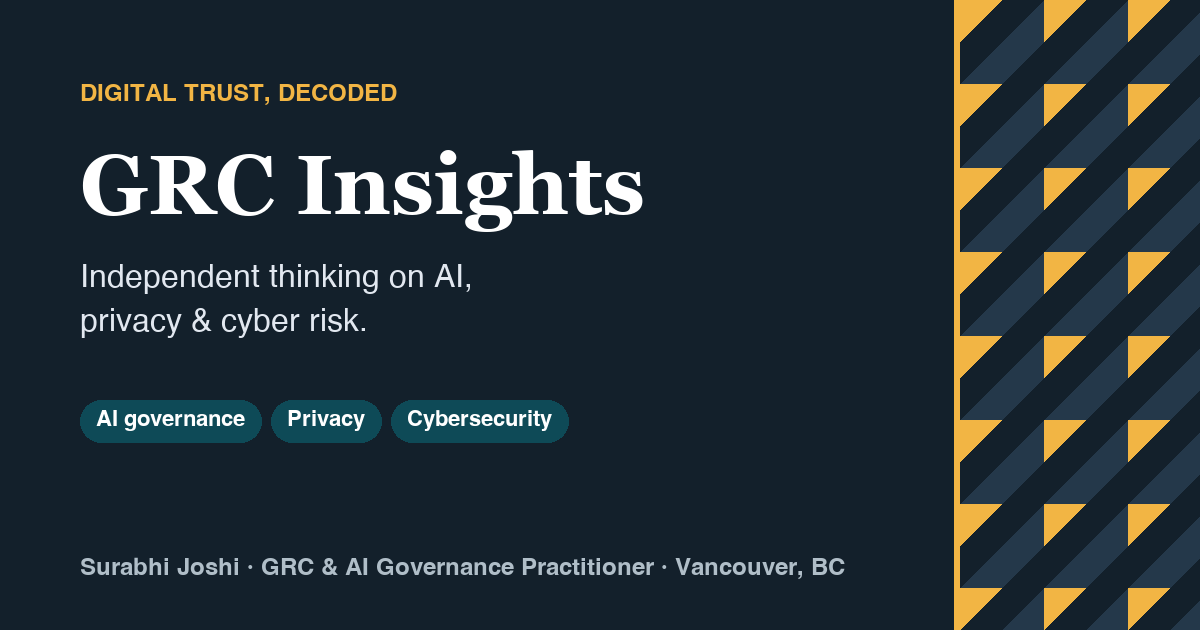
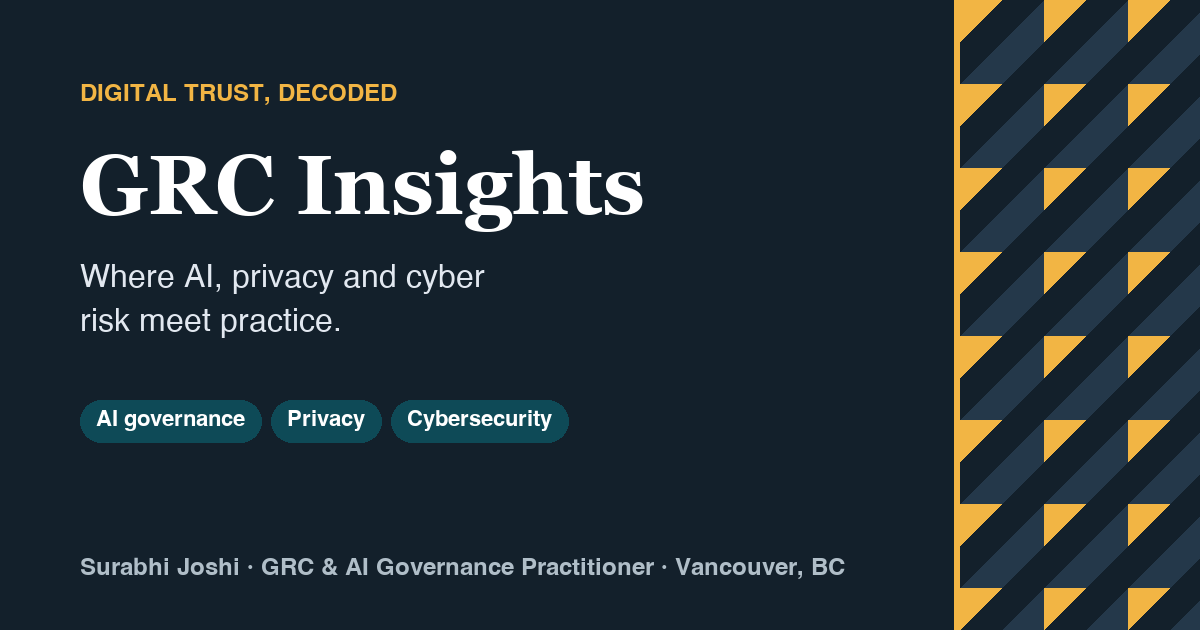
fix: final-review fixes (og-v2 routine paths, keep hand-picked images, AA label text, smaller card images, eager cover) + new hero headline

Changed region(s): [[0.0617, 0.4222, 0.4008, 0.5429]]

diff --git a/css/style.css b/css/style.css
@@ -9,7 +9,8 @@
   --teal: #0E4A57;
   --teal-2: #1A6170;
   --amber: #F2B544;
-  --label: #B7791F;
+  --label: #B7791F;        /* decorative accent (spec §8) */
+  --label-text: #8A5A12;   /* same hue, darkened for AA text contrast */
   --card: #FBF6EC;
   --white: #FFFFFF;
   --serif: 'Fraunces', Georgia, 'Times New Roman', serif;
@@ -68,7 +69,7 @@ h1, h2, h3, h4 { font-family: var(--serif); color: var(--ink); letter-spacing: -
   font: 800 11px/1.3 var(--sans); letter-spacing: .14em; text-transform: uppercase;
 }
 .type-label, .section-label {
-  font: 800 11px/1.3 var(--sans); letter-spacing: .14em; text-transform: uppercase; color: var(--label);
+  font: 800 11px/1.3 var(--sans); letter-spacing: .14em; text-transform: uppercase; color: var(--label-text);
 }
 .section-label { display: block; margin: 40px 0 14px; }
 
@@ -166,7 +167,7 @@ h1, h2, h3, h4 { font-family: var(--serif); color: var(--ink); letter-spacing: -
 .radar-strip { display: flex; flex-wrap: wrap; align-items: center; gap: 12px 28px; padding: 20px 0; border-top: 1px solid var(--line); border-bottom: 1px solid var(--line); }
 .upcoming { list-style: none; display: flex; flex-direction: column; gap: 8px; margin: 6px 0 18px; }
 .radar-strip .upcoming { flex-direction: row; flex-wrap: wrap; gap: 10px 26px; margin: 0; }
-.upcoming time { font-weight: 800; color: var(--label); margin-right: 6px; text-transform: uppercase; font-size: 13px; }
+.upcoming time { font-weight: 800; color: var(--label-text); margin-right: 6px; text-transform: uppercase; font-size: 13px; }
 .upcoming a { color: var(--ink); font-weight: 700; text-decoration: none; font-family: var(--serif); }
 .radar-strip .go { margin-left: auto; font-weight: 700; color: var(--teal); text-decoration: none; }
 
@@ -212,7 +213,7 @@ h1, h2, h3, h4 { font-family: var(--serif); color: var(--ink); letter-spacing: -
 .about { display: flex; gap: 22px; margin-top: 44px; padding: 26px; border-radius: 16px; background: var(--white); border: 1px solid var(--line); }
 .about-avatar { flex: none; width: 64px; height: 64px; border-radius: 50%; display: grid; place-items: center; background: var(--teal); color: var(--white); font: 700 22px var(--serif); }
 .about-content .name { font: 700 22px var(--serif); }
-.about-content .role { font-size: 13px; font-weight: 600; color: var(--label); margin: 2px 0 10px; text-transform: uppercase; letter-spacing: .08em; }
+.about-content .role { font-size: 13px; font-weight: 600; color: var(--label-text); margin: 2px 0 10px; text-transform: uppercase; letter-spacing: .08em; }
 .about-content p { font-size: 15px; color: var(--muted); }
 .li-link { display: inline-flex; align-items: center; gap: 8px; margin-top: 14px; padding: 10px 16px; border-radius: 999px; background: var(--teal); color: var(--white); font-weight: 700; font-size: 14px; text-decoration: none; }
 .li-link:hover { background: var(--teal-2); }
@@ -223,14 +224,14 @@ h1, h2, h3, h4 { font-family: var(--serif); color: var(--ink); letter-spacing: -
 .trends-grid { display: grid; grid-template-columns: repeat(2, minmax(0, 1fr)); gap: 20px; margin: 10px 0 30px; }
 .trend-card { position: relative; background: var(--white); border: 1px solid var(--line); border-top: 4px solid var(--teal); border-radius: var(--radius); padding: 22px; }
 .trend-icon { font-size: 22px; margin-bottom: 8px; }
-.trend-number { font: 800 11px var(--sans); letter-spacing: .14em; text-transform: uppercase; color: var(--label); }
+.trend-number { font: 800 11px var(--sans); letter-spacing: .14em; text-transform: uppercase; color: var(--label-text); }
 .trend-title { font: 700 20px/1.25 var(--serif); margin: 6px 0 10px; }
 .trend-body { font-size: 15px; color: var(--muted); margin-bottom: 12px; }
 .trend-actions { background: var(--card); border-radius: 10px; padding: 12px 14px; }
 .trend-actions p { font-weight: 800; font-size: 12px; text-transform: uppercase; letter-spacing: .1em; color: var(--teal); margin-bottom: 6px; }
 .trend-actions ul { list-style: none; }
 .trend-actions li { position: relative; padding-left: 16px; font-size: 14px; margin-bottom: 5px; }
-.trend-actions li::before { content: '→'; position: absolute; left: 0; color: var(--label); }
+.trend-actions li::before { content: '→'; position: absolute; left: 0; color: var(--label-text); }
 .takeaway { background: var(--ink); color: var(--white); border-radius: 16px; padding: 28px 30px; margin: 10px 0 24px; }
 .takeaway .label { font: 800 11px var(--sans); letter-spacing: .14em; text-transform: uppercase; color: var(--amber); }
 .takeaway h2 { color: var(--white); font-size: 28px; margin: 8px 0 10px; }

diff --git a/index.html b/index.html
@@ -9,8 +9,8 @@ description: "Digital trust, decoded: a GRC practitioner's field notes on AI gov
   <div class="hero-inner hero-grid">
     <div>
       <span class="kicker">Digital trust, decoded</span>
-      <h1>Independent thinking on AI, privacy &amp; cyber risk.</h1>
-      <p class="lede">Field notes by {{ site.author.name }}, a GRC practitioner in Vancouver. What's changing, what it means, and what I'd do next.</p>
+      <h1>Where AI, privacy and cyber risk meet practice.</h1>
+      <p class="lede">Making sense of AI, privacy and cyber risk, before it lands on your desk. Field notes by {{ site.author.name }}, a GRC practitioner in Vancouver.</p>
       {% if site.substack_url and site.substack_url != "" %}<a class="btn" href="{{ site.substack_url }}" target="_blank" rel="noopener">Subscribe on Substack</a>{% endif %}
       <a class="btn{% if site.substack_url and site.substack_url != '' %} btn--secondary{% endif %}" href="{{ site.author.url }}" target="_blank" rel="noopener">Follow on LinkedIn</a>
       <div class="author-row">
@@ -48,7 +48,7 @@ description: "Digital trust, decoded: a GRC practitioner's field notes on AI gov
   {% if latest.series == 'field-notes' %}{% assign latest_fmt = '%B %Y' %}{% else %}{% assign latest_fmt = '%-d %B %Y' %}{% endif %}
   <span class="section-label">Featured</span>
   <a class="latest-card" href="{{ latest.url | relative_url }}">
-    <div class="card-image">{% if latest.cover %}{% if latest.cover contains '://' %}{% assign src = latest.cover %}{% else %}{% assign src = latest.cover | relative_url %}{% endif %}<img src="{{ src }}" alt="{{ latest.cover_alt | escape }}">{% else %}{% include brand-art.html class="brand-art--small" %}{% endif %}</div>
+    <div class="card-image">{% if latest.cover %}{% if latest.cover contains '://' %}{% assign src = latest.cover | replace: 'w=1600', 'w=1200' %}{% else %}{% assign src = latest.cover | relative_url %}{% endif %}<img src="{{ src }}" alt="{{ latest.cover_alt | escape }}" loading="lazy">{% else %}{% include brand-art.html class="brand-art--small" %}{% endif %}</div>
     <div class="latest-text">
       <span class="type-label">{{ latest_series.label }}{% if latest.issue > 0 %} · Issue {{ latest.issue }}{% endif %} · {{ latest.date | date: latest_fmt }}</span>
       <span class="latest-title">{{ latest.title }}</span>

diff --git a/_includes/post-card.html b/_includes/post-card.html
@@ -2,7 +2,7 @@
 {%- assign p = include.post -%}
 {%- if p.series == 'field-notes' %}{% assign label = 'Field Notes' %}{% assign fmt = '%B %Y' %}{% else %}{% capture label %}Issue {{ p.issue }}{% endcapture %}{% assign fmt = '%-d %B %Y' %}{% endif -%}
 <a class="post-card" href="{{ p.url | relative_url }}">
-  <div class="card-image">{% if p.cover %}{% if p.cover contains '://' %}{% assign src = p.cover %}{% else %}{% assign src = p.cover | relative_url %}{% endif %}<img src="{{ src }}" alt="{{ p.cover_alt | escape }}" loading="lazy">{% else %}{% include brand-art.html class="brand-art--small" %}{% endif %}</div>
+  <div class="card-image">{% if p.cover %}{% if p.cover contains '://' %}{% assign src = p.cover | replace: 'w=1600', 'w=800' %}{% else %}{% assign src = p.cover | relative_url %}{% endif %}<img src="{{ src }}" alt="{{ p.cover_alt | escape }}" loading="lazy">{% else %}{% include brand-art.html class="brand-art--small" %}{% endif %}</div>
   <div class="card-body">
     <span class="type-label">{{ label }}</span>
     <h3>{{ p.title }}</h3>

diff --git a/_includes/cover.html b/_includes/cover.html
@@ -3,7 +3,7 @@
 <figure class="cover">
   {%- if p.cover -%}
   {%- if p.cover contains '://' %}{% assign src = p.cover %}{% else %}{% assign src = p.cover | relative_url %}{% endif %}
-  <img src="{{ src }}" alt="{{ p.cover_alt | escape }}" loading="lazy">
+  <img src="{{ src }}" alt="{{ p.cover_alt | escape }}" fetchpriority="high">
   <figcaption><a href="{{ p.cover_credit_url }}" target="_blank" rel="noopener">{{ p.cover_credit | escape }}</a></figcaption>
   {%- else -%}
   {% include brand-art.html %}

diff --git a/scripts/make_og_cards.py b/scripts/make_og_cards.py
@@ -51,11 +51,15 @@ def issue_card(path):
     footer(draw, AUTHOR)
     out = save(img, f"{path.stem}.png")
     new_line = f"image: /assets/og-v2/{path.stem}.png"
-    if re.search(r"^image:.*$", fm, re.M):
-        new_fm = re.sub(r"^image:.*$", new_line, fm, count=1, flags=re.M)
-    else:
+    current = re.search(r"^image:\s*(\S+)\s*$", fm, re.M)
+    if current is None:
         new_fm = fm + "\n" + new_line
-    path.write_text(text.replace(fm, new_fm, 1), encoding="utf-8")
+    elif re.match(r"/assets/og(-v2)?/", current.group(1)):  # generated card (old or current folder)
+        new_fm = fm.replace(current.group(0), new_line, 1)
+    else:  # a hand-picked image: leave it alone
+        new_fm = fm
+    if new_fm != fm:
+        path.write_text(text.replace(fm, new_fm, 1), encoding="utf-8")
     return out
 
 
@@ -76,7 +80,7 @@ if __name__ == "__main__":
     for issue in sorted((ROOT / "_issues").glob("*.*")):
         print(issue_card(issue))
     print(page_card("home.png", "Digital trust, decoded", "GRC Insights",
-                    ["Independent thinking on AI,", "privacy & cyber risk."],
+                    ["Where AI, privacy and cyber", "risk meet practice."],
                     ["AI governance", "Privacy", "Cybersecurity"], AUTHOR))
     print(page_card("about.png", "GRC Insights · About", "Surabhi Joshi",
                     ["GRC & AI Governance Practitioner", "Independent field notes."],

diff --git a/tests/test_cards.py b/tests/test_cards.py
@@ -26,3 +26,17 @@ class CardTests(unittest.TestCase):
 
 if __name__ == "__main__":
     unittest.main()
+
+
+class GeneratorTests(unittest.TestCase):
+    def test_hand_picked_image_is_not_overwritten(self):
+        import make_og_cards
+        issue = ROOT / "_issues" / "2099-01-zz-generator-test.md"
+        issue.write_text('---\ntitle: "Generator test"\nissue: 99\nseries: monthly\ndate: 2099-01-03\n'
+                         'categories: [privacy-law]\nimage: /assets/custom/hand-picked.png\n---\nBody\n', encoding="utf-8")
+        try:
+            make_og_cards.issue_card(issue)
+            self.assertIn("image: /assets/custom/hand-picked.png", issue.read_text(encoding="utf-8"))
+        finally:
+            issue.unlink()
+            (ROOT / "assets" / "og-v2" / f"{issue.stem}.png").unlink(missing_ok=True)

diff --git a/routine/weekly-issue.md b/routine/weekly-issue.md
@@ -14,7 +14,7 @@ You prepare the next GRC Insights update for Surabhi Joshi to review in the repo
 3. Anything you cannot tie to a primary source after a second deep-research check gets the literal marker
    `⚠ verify` right after the claim.
 4. No legal-advice framing.
-5. Only touch `_issues/<new file>`, its card `assets/og/<issue-file-stem>.png`, `_data/tracker.yml`, `social/issue-<NN>.md` and `social/linkedin-schedule.md`. Never edit layouts, CSS,
+5. Only touch `_issues/<new file>`, its card `assets/og-v2/<issue-file-stem>.png`, `_data/tracker.yml`, `social/issue-<NN>.md` and `social/linkedin-schedule.md`. Never edit layouts, CSS,
    JS, `sources.html`, or `_issues/2026-05-field-notes.html`.
 6. Never push to `main`. Never merge. Never post to social media.
 
@@ -83,7 +83,7 @@ status update ("Update: …"), not as new news. Drop low-confidence findings unl
 3. Sources: numbered list of every URL cited.
 4. Tracker: update changed rows (status, key_dates, summary, source) and add new rows. Quote all dates, and set
    `last_reviewed: "<today>"` on every row you re-checked.
-5. Link-preview card: run `python3 scripts/make_og_cards.py` (adds `image:` to the new issue and writes `assets/og/<issue>.png`); include the PNG in the commit.
+5. Link-preview card: run `python3 scripts/make_og_cards.py` (adds `image:` to the new issue and writes `assets/og-v2/<issue>.png`); include the PNG in the commit.
 6. Social: create `social/issue-<NN>.md` from `routine/social-template.md` (NN = nextIssue, zero-padded to 2), and add or
    update the issue's row in `social/linkedin-schedule.md` (next free Tuesday).
 
@@ -111,7 +111,7 @@ Issue:
 ```bash
 BRANCH="issue/<NN>-<today>-<slug>"
 git switch -c "$BRANCH"
-git add "_issues/<file>" "assets/og/<issue-file-stem>.png" _data/tracker.yml "social/issue-<NN>.md" social/linkedin-schedule.md
+git add "_issues/<file>" "assets/og-v2/<issue-file-stem>.png" _data/tracker.yml "social/issue-<NN>.md" social/linkedin-schedule.md
 git commit -m "Issue <NN> — <series label>: <theme>"
 git push -u origin "$BRANCH"
 BODY=$(mktemp)
